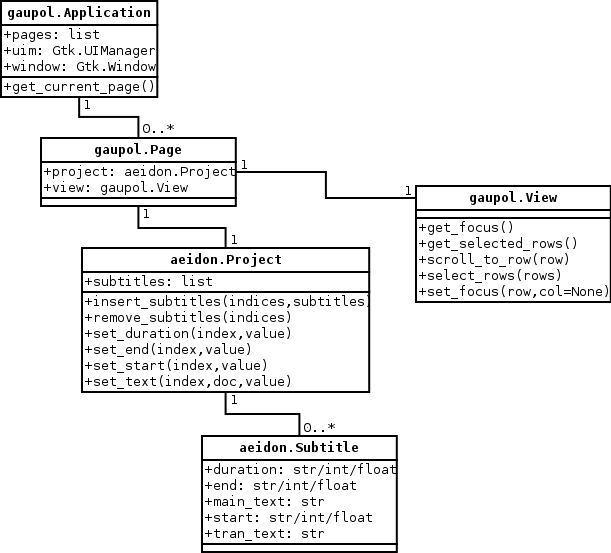
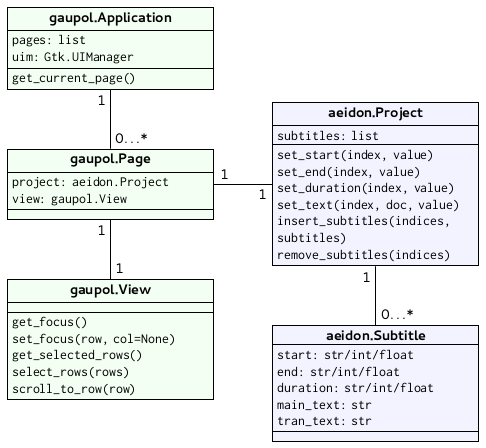
Redraw UML-diagram with tikz.

diff --git a/doc/wiki/classes.tex b/doc/wiki/classes.tex
@@ -1,0 +1,86 @@
+% -*- coding: utf-8-unix -*-
+\documentclass{minimal}
+\usepackage[utf8]{inputenc}
+\usepackage[T1]{fontenc}
+\usepackage[english,finnish]{babel}
+\usepackage[a4paper,margin=1cm]{geometry}
+\usepackage[active,tightpage]{preview}
+\usepackage{tikz}
+\usepackage[default]{cantarell}
+\usepackage{inconsolata}
+\PreviewEnvironment{tikzpicture}
+\setlength\PreviewBorder{5pt}
+\usetikzlibrary{positioning,shapes,shadows,arrows}
+\begin{document}
+\tikzstyle{class}=[
+rectangle,
+rectangle split,
+rectangle split parts=3,
+text width=5cm,
+align=center,
+draw=black,
+anchor=north
+]
+\tikzstyle{tt}=[align=left]
+\tikzstyle{aeidon}=[fill=blue!5]
+\tikzstyle{gaupol}=[fill=green!5]
+\begin{center}
+\begin{tikzpicture}[node distance=4cm]
+\node (application) [class,gaupol] {
+  \textbf{gaupol.Application}
+  \nodepart[tt]{second}
+  \texttt{pages: list} \\
+  \texttt{uim: Gtk.UIManager}
+  \nodepart[tt]{third}
+  \texttt{get\_current\_page()}
+};
+\node (page) [class,gaupol,below=1.5cm of application] {
+  \textbf{gaupol.Page}
+  \nodepart[tt]{second}
+  \texttt{project: aeidon.Project} \\
+  \texttt{view: gaupol.View}
+  \nodepart[tt]{third}
+};
+\node (view) [class,gaupol,below=1.5 cm of page] {
+  \textbf{gaupol.View}
+  \nodepart[tt]{second}
+  \nodepart[tt]{third}
+  \texttt{get\_focus()} \\
+  \texttt{set\_focus(row, col=None)} \\
+  \texttt{get\_selected\_rows()} \\
+  \texttt{select\_rows(rows)} \\
+  \texttt{scroll\_to\_row(row)}
+};
+\node (project) [class,aeidon,right=1.5cm of page] {
+  \textbf{aeidon.Project}
+  \nodepart[tt]{second}
+  \texttt{subtitles: list}
+  \nodepart[tt]{third}
+  \texttt{set\_start(index, value)} \\
+  \texttt{set\_end(index, value)} \\
+  \texttt{set\_duration(index, value)} \\
+  \texttt{set\_text(index, doc, value)}
+  \texttt{insert\_subtitles(indices, subtitles)} \\
+  \texttt{remove\_subtitles(indices)}
+};
+\node (subtitle) [class,aeidon,below=1.5 cm of project] {
+  \textbf{aeidon.Subtitle}
+  \nodepart[tt]{second}
+  \texttt{start: str/int/float} \\
+  \texttt{end: str/int/float} \\
+  \texttt{duration: str/int/float} \\
+  \texttt{main\_text: str} \\
+  \texttt{tran\_text: str}
+  \nodepart[tt]{third}
+};
+\draw (application) -- node [left,pos=0.18] {1} (page);
+\draw (application) -- node [right,pos=0.82] {0$\dots$*} (page);
+\draw (page) -- node [left,pos=0.18] {1} (view);
+\draw (page) -- node [right,pos=0.82] {1} (view);
+\draw (page) -- node [above,pos=0.18] {1} (project);
+\draw (page) -- node [below,pos=0.82] {1} (project);
+\draw (project) -- node [left,pos=0.18] {1} (subtitle);
+\draw (project) -- node [right,pos=0.82] {0$\dots$*} (subtitle);
+\end{tikzpicture}
+\end{center}
+\end{document}
